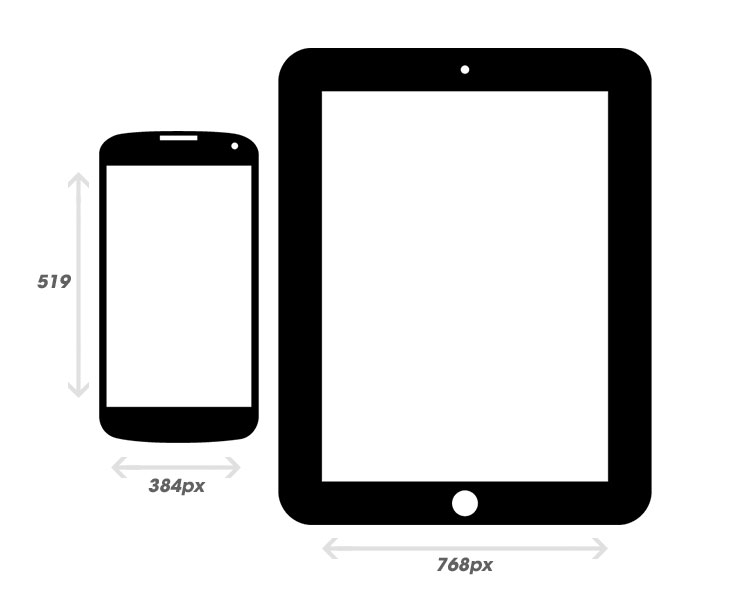
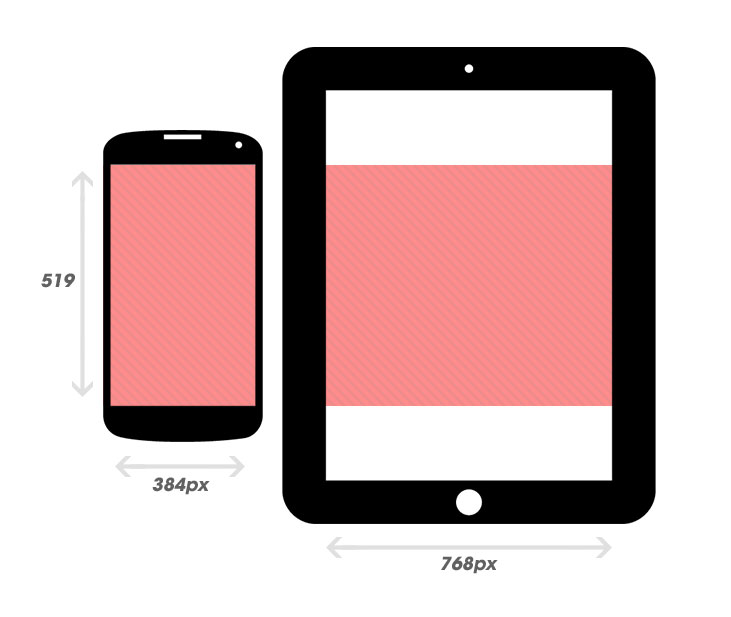
Updated Racer case study with final copy changes

diff --git a/content/tutorials/casestudies/racer/en/index.html b/content/tutorials/casestudies/racer/en/index.html
@@ -41,7 +41,7 @@
 
 <h2 id="toc-track">The Track</h2>
 
-<p>A fairly obvious challenge we faced was how to make a web based mobile game that’s played across such a wide variety of devices look good consistently. Players needed to be able to construct a race with different phones and tablets. One player could have a Nexus 4 and want to race against his friend who had an iPad. We needed to come up with a way to determine a common track size for each race. The solution had to involve using different size tracks depending on the specs for each device included in the race.</p>
+<p>A fairly obvious challenge we faced was how to make a web based mobile game that works well across a wide variety of devices. Players needed to be able to construct a race with different phones and tablets. One player could have a Nexus 4 and want to race against his friend who had an iPad. We needed to come up with a way to determine a common track size for each race. The solution had to involve using different size tracks depending on the specs for each device included in the race.</p>
 
 <h3 id="toc-calculating-dimensions">Calculating Track Dimensions</h3>
 
@@ -50,7 +50,7 @@
 <p>
 <figure>
 <img src="/static/images/tutorials/casestudies/racer/devices.jpg" class="racer-full">
-<figcaption>Example Dimensions</figcaption>
+<figcaption>The red area shows the total width and height of the track for this example.</figcaption>
 </figure>
 </p>
 
@@ -78,7 +78,7 @@ this.getDimensions = function() {
 
 <h3 id="toc-drawing-track">Drawing the Track</h3>
 
-<p><a href="http://paperjs.org">Paper.js</a> was the perfect tool to create vector shapes for the tracks, so we used it’s capabilities to render the saved Illustrator SVG code on a Canvas element. To create the track, the TrackModel class appends the SVG code to the DOM and gathers information about the original dimensions, traction and positioning to be passed to the TrackPathView which will draw the track to a canvas.</p>
+<p><a href="http://paperjs.org">Paper.js</a> is an open source vector graphics scripting framework that runs on top of HTML5 Canvas. We found Paper.js was the perfect tool to create vector shapes for the tracks, so we used its capabilities to render the SVG tracks that were built in Adobe Illustrator on a Canvas element. To create the track, the TrackModel class appends the SVG code to the DOM and gathers information about the original dimensions and positioning to be passed to the TrackPathView which will draw the track to a canvas.</p>
 
 <pre class="prettyprint">
 paper.install(window);
@@ -95,7 +95,7 @@ _path.strokeWidth = 2;
 
 <p><iframe src="/static/demos/racer/track.html" frameborder="0" width="100%" height="450"></iframe></p>
 
-<p>Once the track is drawn, each device finds its x offset based on where it falls in the line-up, and positions the track accordingly.</p>
+<p>Once the track is drawn, each device finds its x offset based on it’s position in the device line-up order, and positions the track accordingly.</p>
 
 <pre class="prettyprint">
 var x = 0;
@@ -115,7 +115,7 @@ for (var i = 0; i < screens.length; i++) {
 
 <h2 id="toc-css-animations">CSS Animations</h2>
 
-<p>While Paper.js is drawing each lane of the track, it is using the majority of available processing in JavaScript. Depending on the device, this could take more or less time than the other players in the game. So we needed a little loader to loop until all devices had finished processing the track. The problem was that any JavaScript-based animation would skip frames due to Paper.js working. Enter CSS animations, which run on a separate UI thread, allowing us to smoothly animate the sheen across the "BUILDING TRACK” text.</p>
+<p>Paper.js uses a lot of CPU processing to draw the track lanes and this process will take more or less time on different devices. To handle this, we needed a loader to loop until all devices finish processing the track. The problem was that any JavaScript-based animation would skip frames due to the CPU requirements of Paper.js. Enter CSS animations, which run on a separate UI thread, allowing us to smoothly animate the sheen across the "BUILDING TRACK” text.</p>
 
 <p><iframe src="/static/demos/racer/building.html" frameborder="0" width="100%" height="280"></iframe></p>
 
@@ -191,9 +191,9 @@ for (var i = 0; i < screens.length; i++) {
 
 <h2 id="toc-rendering-cars">Rendering the Cars</h2>
 
-<p>As with any car racing game we knew it was important to give the user a feeling of acceleration and handling, in fact its probably one of the most important features when it comes to playability. Applying a different amount of traction was important for game balancing and the fun factor, so that once a player got a feel for the physics, they’d get a sense of accomplishment and become a better racer.</p>
+<p>As with any car racing game we knew it was important to give the user a feeling of acceleration and handling. Applying a different amount of traction was important for game balancing and the fun factor, so that once a player got a feel for the physics, they’d get a sense of accomplishment and become a better racer. </p>
 
-<p>Once again we called on paper.js, our swiss army knife for graphics which comes with an extensive set of math utilities. We used some of its methods to move the car along the path, while adjusting its position and rotation smoothly each frame.</p>
+<p>Once again we called on Paper.js which comes with an extensive set of math utilities. We used some of its methods to move the car along the path, while adjusting the car position and rotation smoothly each frame.</p>
 
 <p>
     <iframe src="/static/demos/racer/trackcar.html" frameborder="0" width="100%" height="450"></iframe>
@@ -276,9 +276,9 @@ var difference = currentTime - serverTime;
 <h3 id="toc-acceleration-deceleration">Acceleration/Deceleration</h3>
 </p>When Player 1 presses or releases the screen, the acceleration event is sent to the server. Once received, the server adds its current timestamp and then passes that data along to every other player.</p>
 
-<p>When it is received as an “accelerate on” or “accelerate off” event by each device, we are able to use the server offset (calculated above) to find out how long it took for that message to be received. This is useful, because Player 1 may receive the message in 20ms, but Player 2 might take 50ms to receive it. This would result in the car being in two different places because device 1 would start the acceleration sooner.</p>
+<p>When an “accelerate on” or “accelerate off” event is received by a device, we are able to use the server offset (calculated above) to find out how long it took for that message to be received. This is useful, because Player 1 may receive the message in 20ms, but Player 2 might take 50ms to receive it. This would result in the car being in two different places because device 1 would start the acceleration sooner.</p>
 
-<p>We can take the time it took to receive the event and convert that into frames. At 60fps, each frame is 16.67ms -- so we can speed up or slow down the acceleration/deceleration of the car to account for the frames it missed.</p>
+<p>We can take the time it took to receive the event and convert that into frames. At 60fps, each frame is 16.67ms -- so we can add more velocity (acceleration) or friction (deceleration) on of the car to account for the frames it missed.</p>
 
 <pre class="prettyprint">
 var frames = time / 16.67;
@@ -297,7 +297,7 @@ for (var i = 0; i < frames; i++) {
 <h3 id="toc-keeping-cars-synced">Keeping the Cars Synced</h3>
 <p>Even after accounting for latency in acceleration, the car could still come out of sync and appear on multiple screens at once; specifically when transitioning from one device to the next. In order to prevent this, update events are sent frequently to keep the cars in the same position on the track across all screens.</p>
 
-<p>The logic is simple: every 4 frames, if the car is visible on screen, that device sends it’s values to each of the other devices. If the car is not visible, it updates the values with those received and then moves the car forward based on the time it took to get the update event.</p>
+<p>The logic is simple: every 4 frames, if the car is visible on screen, that device sends it’s values to each of the other devices. If the car is not visible, the app updates the values with those received and then moves the car forward based on the time it took to get the update event.</p>
 
 <pre class="prettyprint">
 this.getValues = function() {
